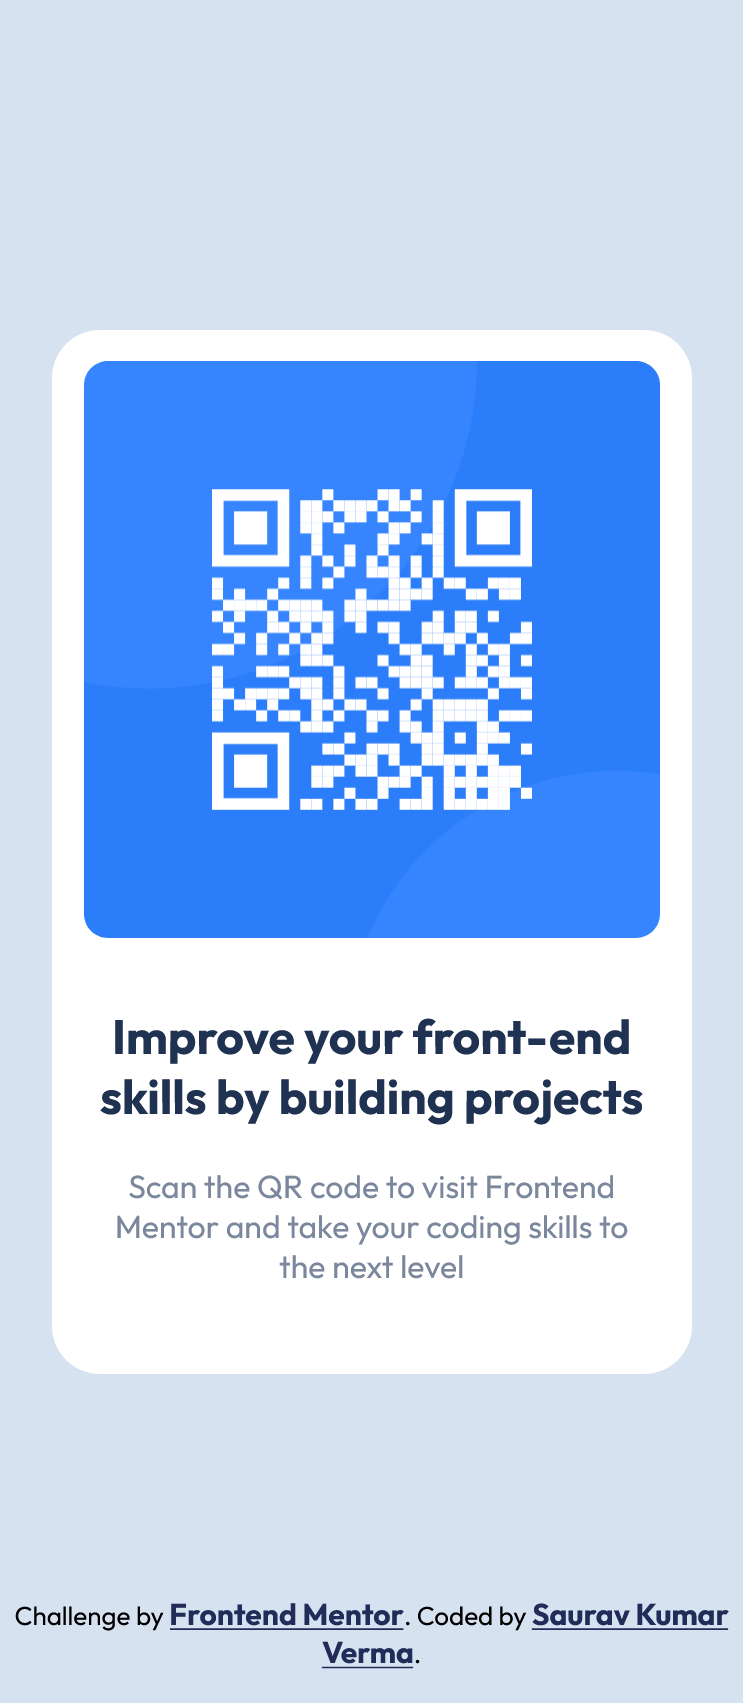
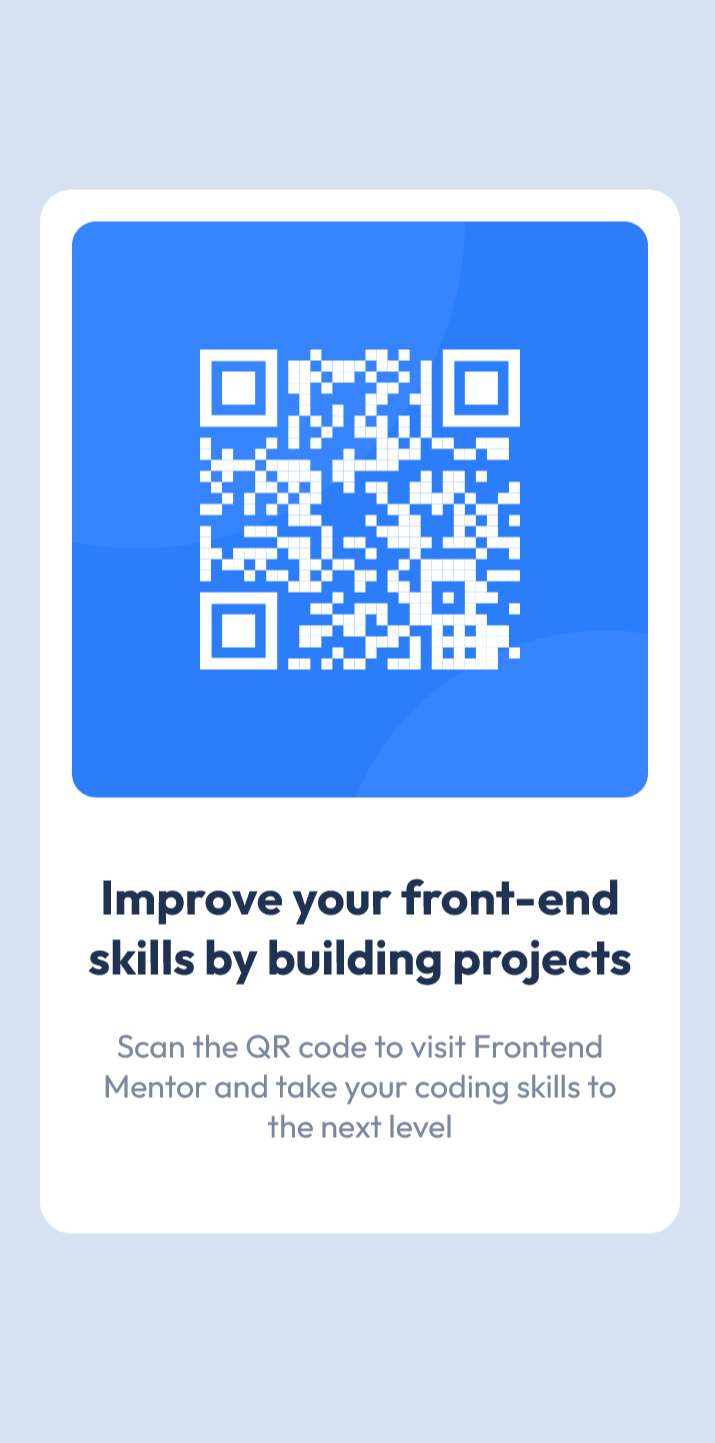
correct screenshots added

Changed region(s): [[0.0308, 0.1247, 0.9538, 0.8732], [0.0, 0.9356, 1.0, 1.0]]

diff --git a/style/main.css b/style/main.css
@@ -33,7 +33,7 @@ img {
   max-width: 20rem;
   background-color: var(--white);
   padding: 1rem 1rem 2.75rem;
-  border-radius: 1.5rem;
+  border-radius: 1rem;
   text-align: center;
 }
 .card--img {
